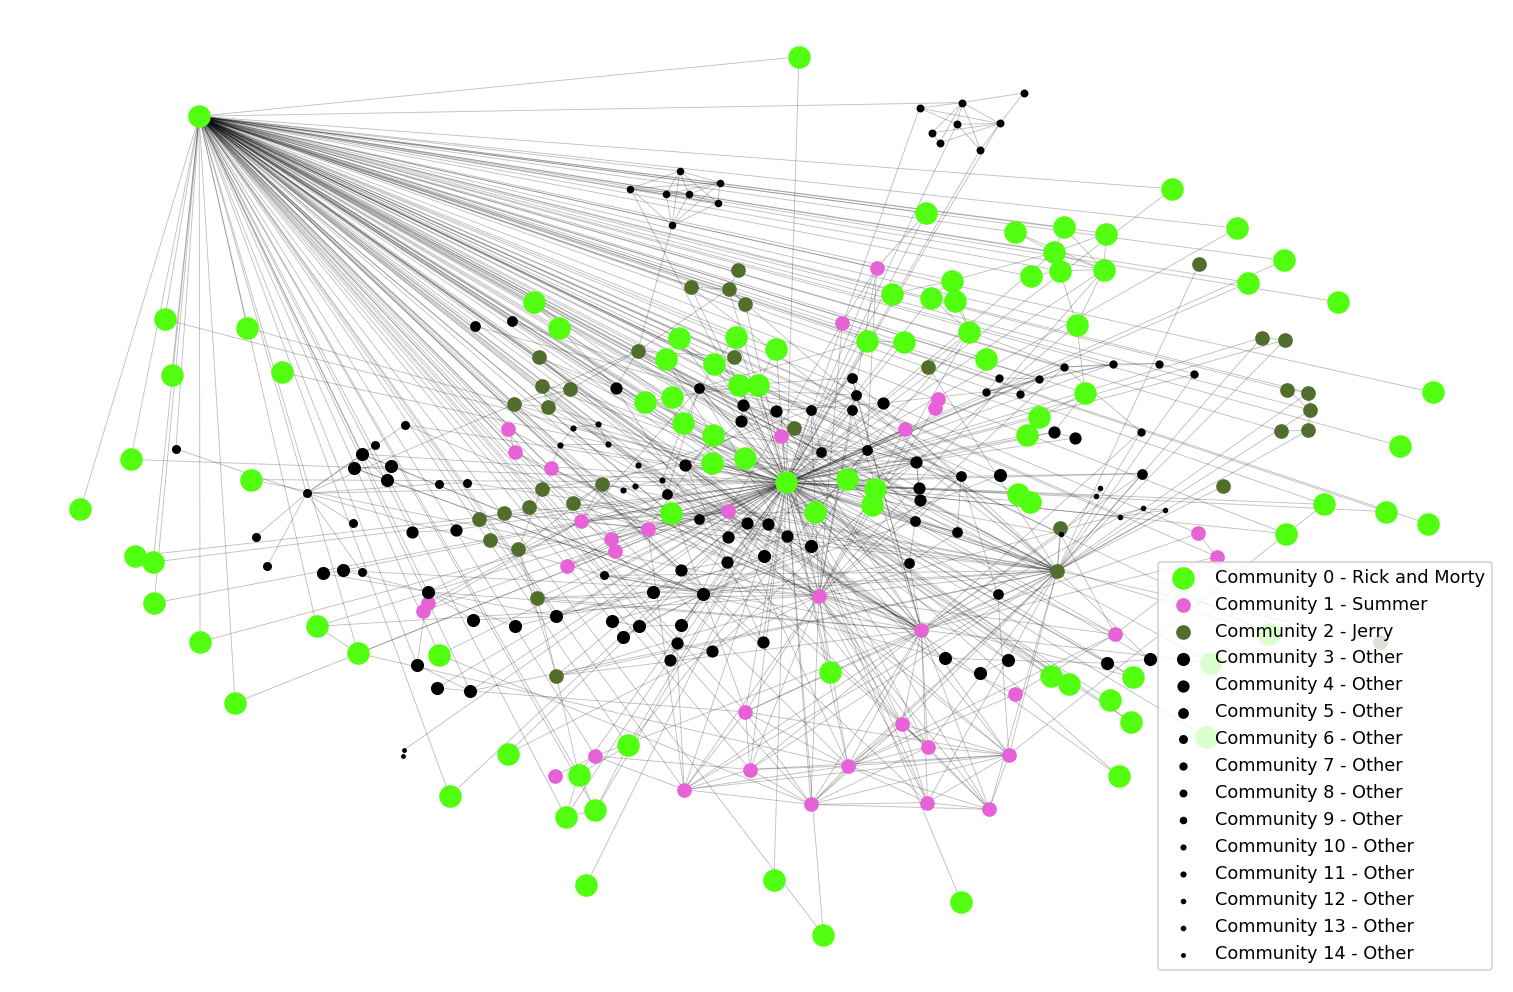
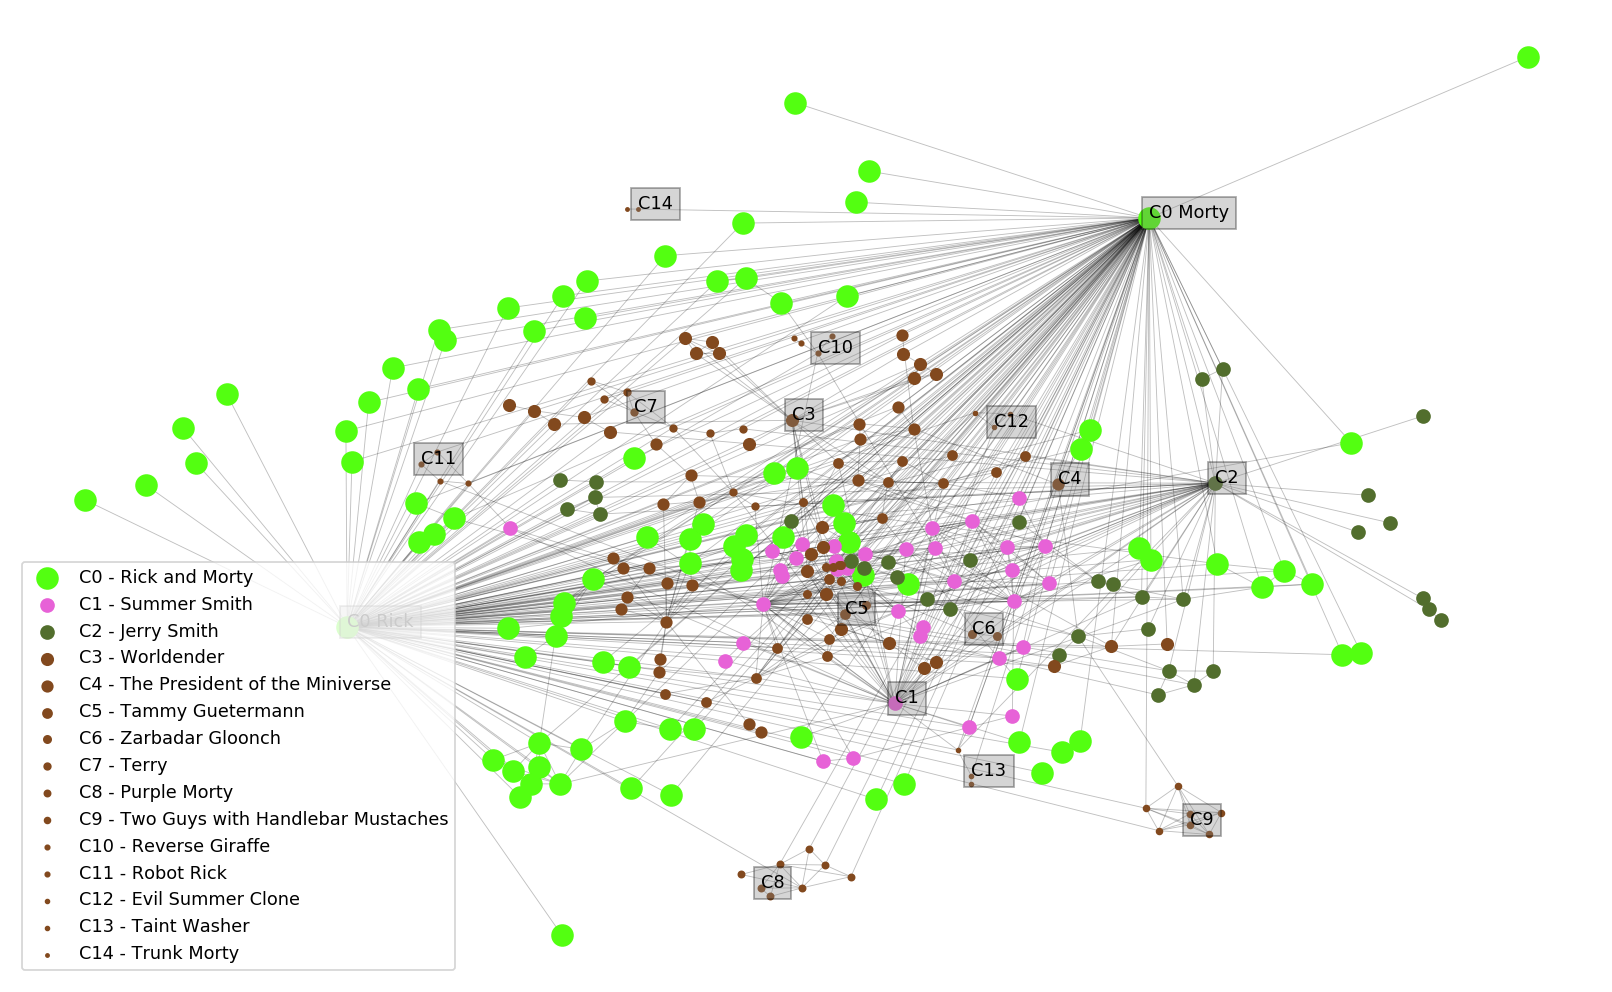
Updating Graphs Pics

diff --git a/characters.html b/characters.html
@@ -284,6 +284,9 @@
                                         <figcaption class="caption">Community Fluid</figcaption>
                                     </figure>
                                     <div class="row">
+                                        <p>Modularity : <b>0.41</b></p>
+                                    </div>
+                                    <div class="row">
                                         <p>The fluid communities algorithm requires defining <i>k</i> number of communities, since it assigns communities randomly to <i>k</i> nodes and divides communitites by randomly iterating over nodes and assigning them to communities based on which communities the neighbors of the given node are divided into. This randomization results in more distinct communities than some of the other algorithms. </p>
                                     </div>
 
@@ -295,6 +298,9 @@
                                         <img class="img-fluid" src="./plots/community_greedy_modularity.png">
                                         <figcaption class="caption">Community Greedy</figcaption>
                                     </figure>
+                                    <div class="row">
+                                        <p>Modularity : <b>0.48</b></p>
+                                    </div>
                                     <div class="row">
                                         <p> The greedy modularity maximization divides characters into communities decreasing by modularity, i.e. the first community will have the highest modularity. As shown by the graph this actually results in community size decreasing simultaneously with the decreasing modularity. Since communities are based upon maximization of modularity, a few big communities exist. This is due to the high degrees of Rick and Morty. This algorithm, as described by it's name, will divide communities with the highest modularity, since that is inherent in the functionality of the algorithm. </p>
                                     </div>
@@ -308,6 +314,9 @@
                                         <figcaption class="caption">Community Label</figcaption>
                                     </figure>
                                     <div class="row">
+                                        <p>Modularity : <b>0.24</b></p>
+                                    </div>
+                                    <div class="row">
                                         <p> The label propagation algorithm performs worst of all the algorithms, when considering modularity. All members of the Smith family are clustered together into one large community that dominates the graph, also visually. This large community exists because of the labelling approach used by the algorithm, where nodes are divided into communities if their neighbors contain similar labels. This approach will enhance communities with high-degree nodes, thus generating this dominant community containing all members of the family. </p>
                                     </div>    
 
@@ -319,6 +328,9 @@
                                         <img class="img-fluid" src="./plots/community_louvain.png">
                                         <figcaption class="caption">Community Louvain</figcaption>
                                     </figure>
+                                     <div class="row">
+                                        <p>Modularity : <b>0.45</b></p>
+                                    </div>
                                     <div class="row">
                                         <p> What is interesting about the Louvain algorithm is that the approach it uses to divide communities is similar to greedy modularity maximization. The major difference is the initial grouping of nodes locally. Perhaps this local grouping is the reason why Rick and Morty reside in separate communities, as compared to the greedy modularity maximization algorithm. </p>
                                     </div>

diff --git a/nlp.html b/nlp.html
@@ -83,8 +83,8 @@
                                     </div>
 
                                     <figure class="full-width">
-                                        <img class="img-fluid" src="./plots/sentiment_score_ep_vs_views.png">
-                                        <figcaption class="caption">Sentiment Score vs. Views in millions</figcaption>
+                                        <img class="img-fluid" src="./plots/sentiment_score_ep_vs_ratings.png">
+                                        <figcaption class="caption">Sentiment Score vs. IMDB Ratings</figcaption>
                                     </figure>
 
                                     <div class="row">
@@ -114,6 +114,11 @@
                                     <div class="row">
                                         <h2>It's all about the words!!</h2>
                                     </div>
+                                    
+                                    <!-- Swear Words -->
+                                    <div class="row">
+                                        <h3>Top 3 Words !!</h3>
+                                    </div>
 
                                     <div class="row">
                                         <p>Introduce the part</p>
@@ -133,8 +138,8 @@
                                     </div>
 
                                     <figure class="full-width">
-                                        <img class="img-fluid" src="./plots/sentiment_vs_profanity_ep.png">
-                                        <figcaption class="caption">Sentiment Score vs. Profanity</figcaption>
+                                        <img class="img-fluid" src="./plots/ratings_vs_profanity_ep.png">
+                                        <figcaption class="caption">Profanity Score vs. Ratings</figcaption>
                                     </figure>
 
                                     <div class="row">
